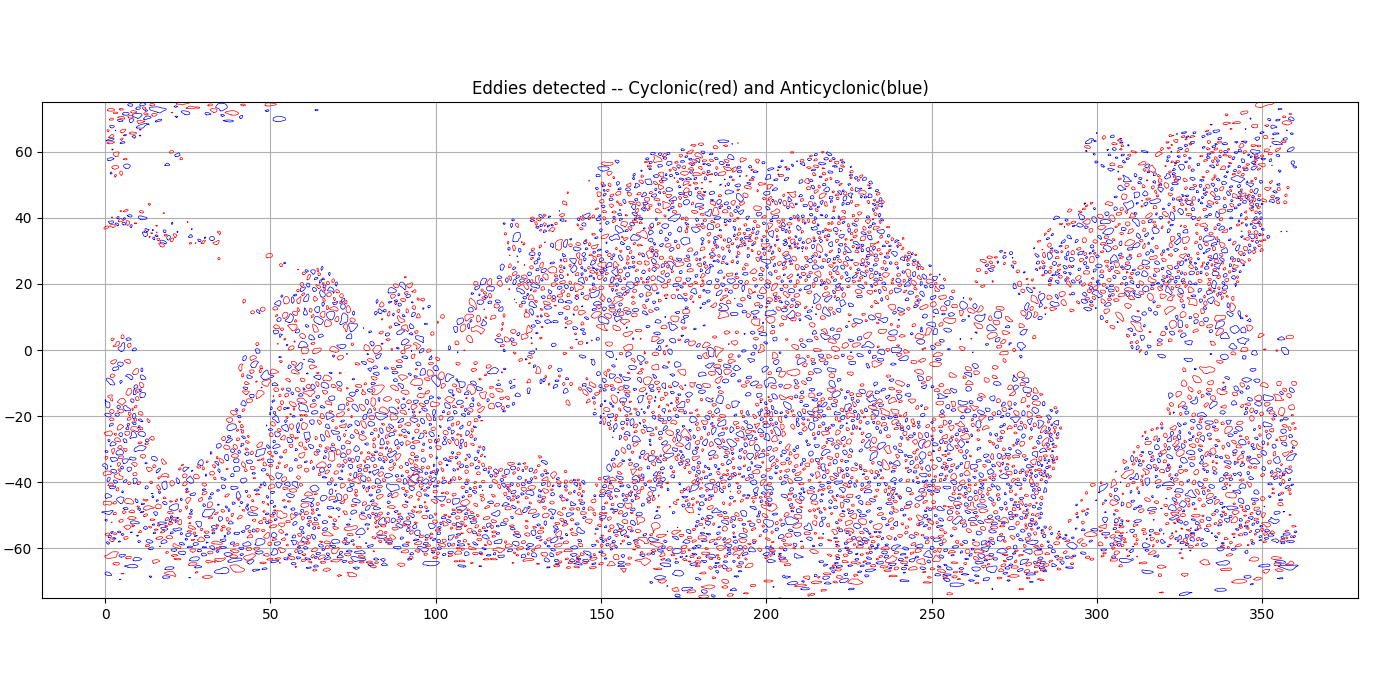
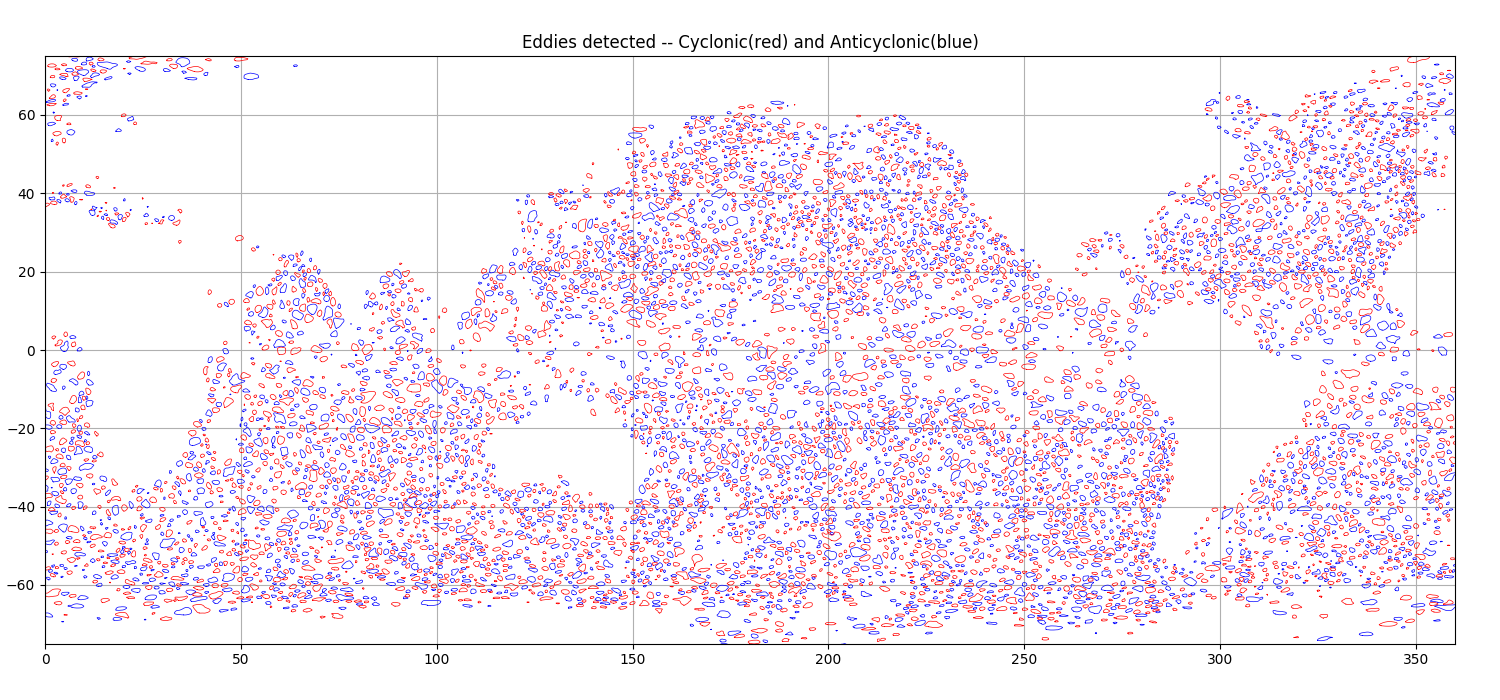
update readme

diff --git a/README.md b/README.md
@@ -163,10 +163,11 @@ a, c = h.eddy_identification(
 
 Plot identification
 ```python
-fig = plt.figure(figsize=(14,7))
+fig = plt.figure(figsize=(15,7))
 ax = fig.add_axes([.03,.03,.94,.94])
 ax.set_title('Eddies detected -- Cyclonic(red) and Anticyclonic(blue)')
 ax.set_ylim(-75,75)
+ax.set_xlim(0,360)
 ax.set_aspect('equal')
 ax.plot(a.obs['contour_lon_s'].T, a.obs['contour_lat_s'].T, 'b', linewidth=.5)
 ax.plot(c.obs['contour_lon_s'].T, c.obs['contour_lat_s'].T, 'r', linewidth=.5)
